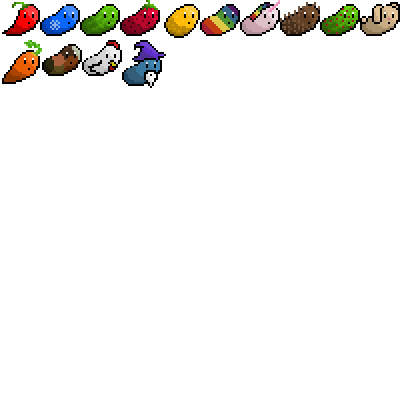
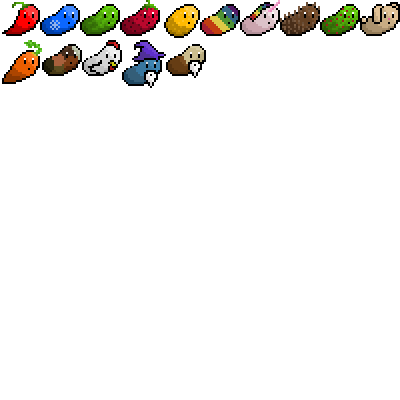
Added old bean

Changed region(s): [[0.39, 0.09, 0.54, 0.21]]

diff --git a/src/entities/entity_meta.py b/src/entities/entity_meta.py
@@ -20,7 +20,8 @@ entity_data = {
     "rabbit": {"max_hp": 100, "moves": [0, 1], "attack": 10, "energy": 100},
     "what": {"max_hp": 100, "moves": [0, 1], "attack": 10, "energy": 100},
     "chicken": {"max_hp": 100, "moves": [0, 1], "attack": 10, "energy": 100},
-    "wizard": {"max_hp": 100, "moves": [0, 1], "attack": 10, "energy": 100}
+    "wizard": {"max_hp": 100, "moves": [0, 1], "attack": 10, "energy": 100},
+    "old_villager": {"max_hp": 100, "moves": [0, 1], "attack": 10, "energy": 100}
 }
 
 item_effects = {

diff --git a/src/entities/bean_image_loader.py b/src/entities/bean_image_loader.py
@@ -26,6 +26,7 @@ rabbit = (360, 0, 40, 40)
 what = (42, 40, 40, 40)
 chicken = (82, 40, 40, 40)
 wizard = (122, 40, 44, 48)
+old_villager = (166, 40, 40, 40)
 
 beans = {}
 
@@ -50,7 +51,8 @@ def load_sprite_sheet():
         "rabbit": create_images(rabbit),
         "what": create_images(what),
         "chicken": create_images(chicken),
-        "wizard": create_images(wizard)
+        "wizard": create_images(wizard),
+        "old_villager": create_images(old_villager)
     }
 
 
